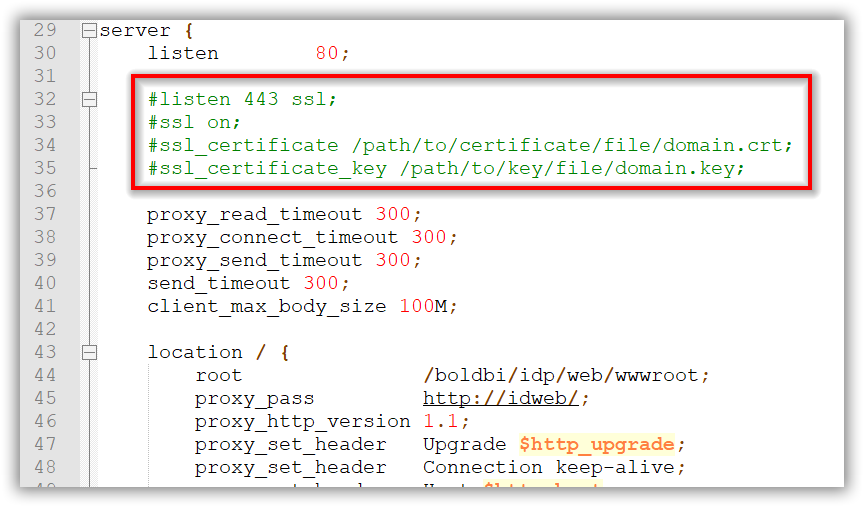
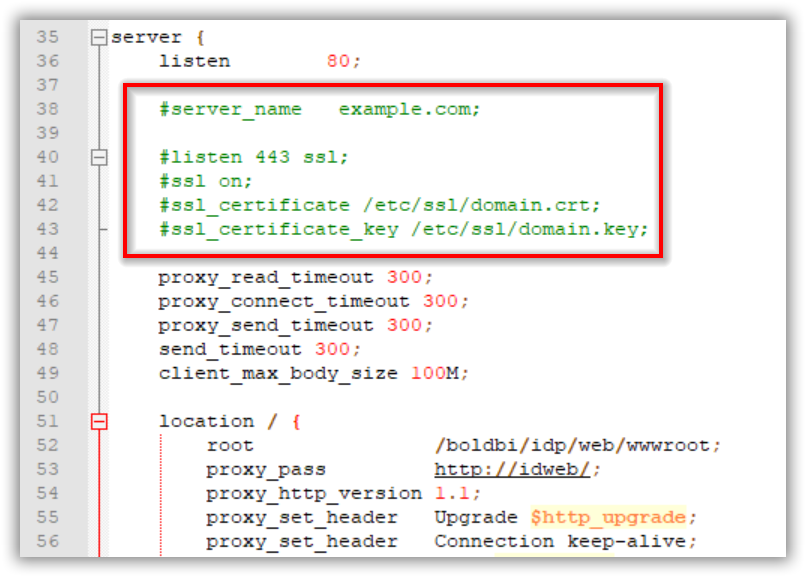
UMP-15012 : SSl redirect fix

Changed region(s): [[0.031, 0.0296, 0.9926, 0.9763]]

diff --git a/README.md b/README.md
@@ -38,17 +38,21 @@ If you have an SSL certificate for your domain and need to configure the site wi
 
 1. Uncomment the following marked lines in the **default.conf** file.
 
+    ![ssl configuration](images/uncomment_ssl_redirect.png)
+
     ![ssl configuration](images/uncomment_lines.png)
 
 2. Comment the following marked line in the **default.conf** file.
 
     ![ssl configuration](images/comment_lines.png)
 
-3. Uncomment the following marked lines in the **docker-compose.yml** file.
+3. Replace the example.com with your domain name.
+
+4. Uncomment the following marked lines in the **docker-compose.yml** file.
     
     ![ssl configuration](images/uncomment_docker.png)
 
-4. Replace certificate and key file paths which were stored in your host machine in `<ssl_cert_file_path>` and `<ssl_key_file_path>` places on **docker-compose.yml** file.
+5. Replace certificate and key file paths which were stored in your host machine in `<ssl_cert_file_path>` and `<ssl_key_file_path>` places on **docker-compose.yml** file.
 
     Ex: 
     `- "D:/certificates/boldbi.crt:/etc/ssl/domain.crt"`
